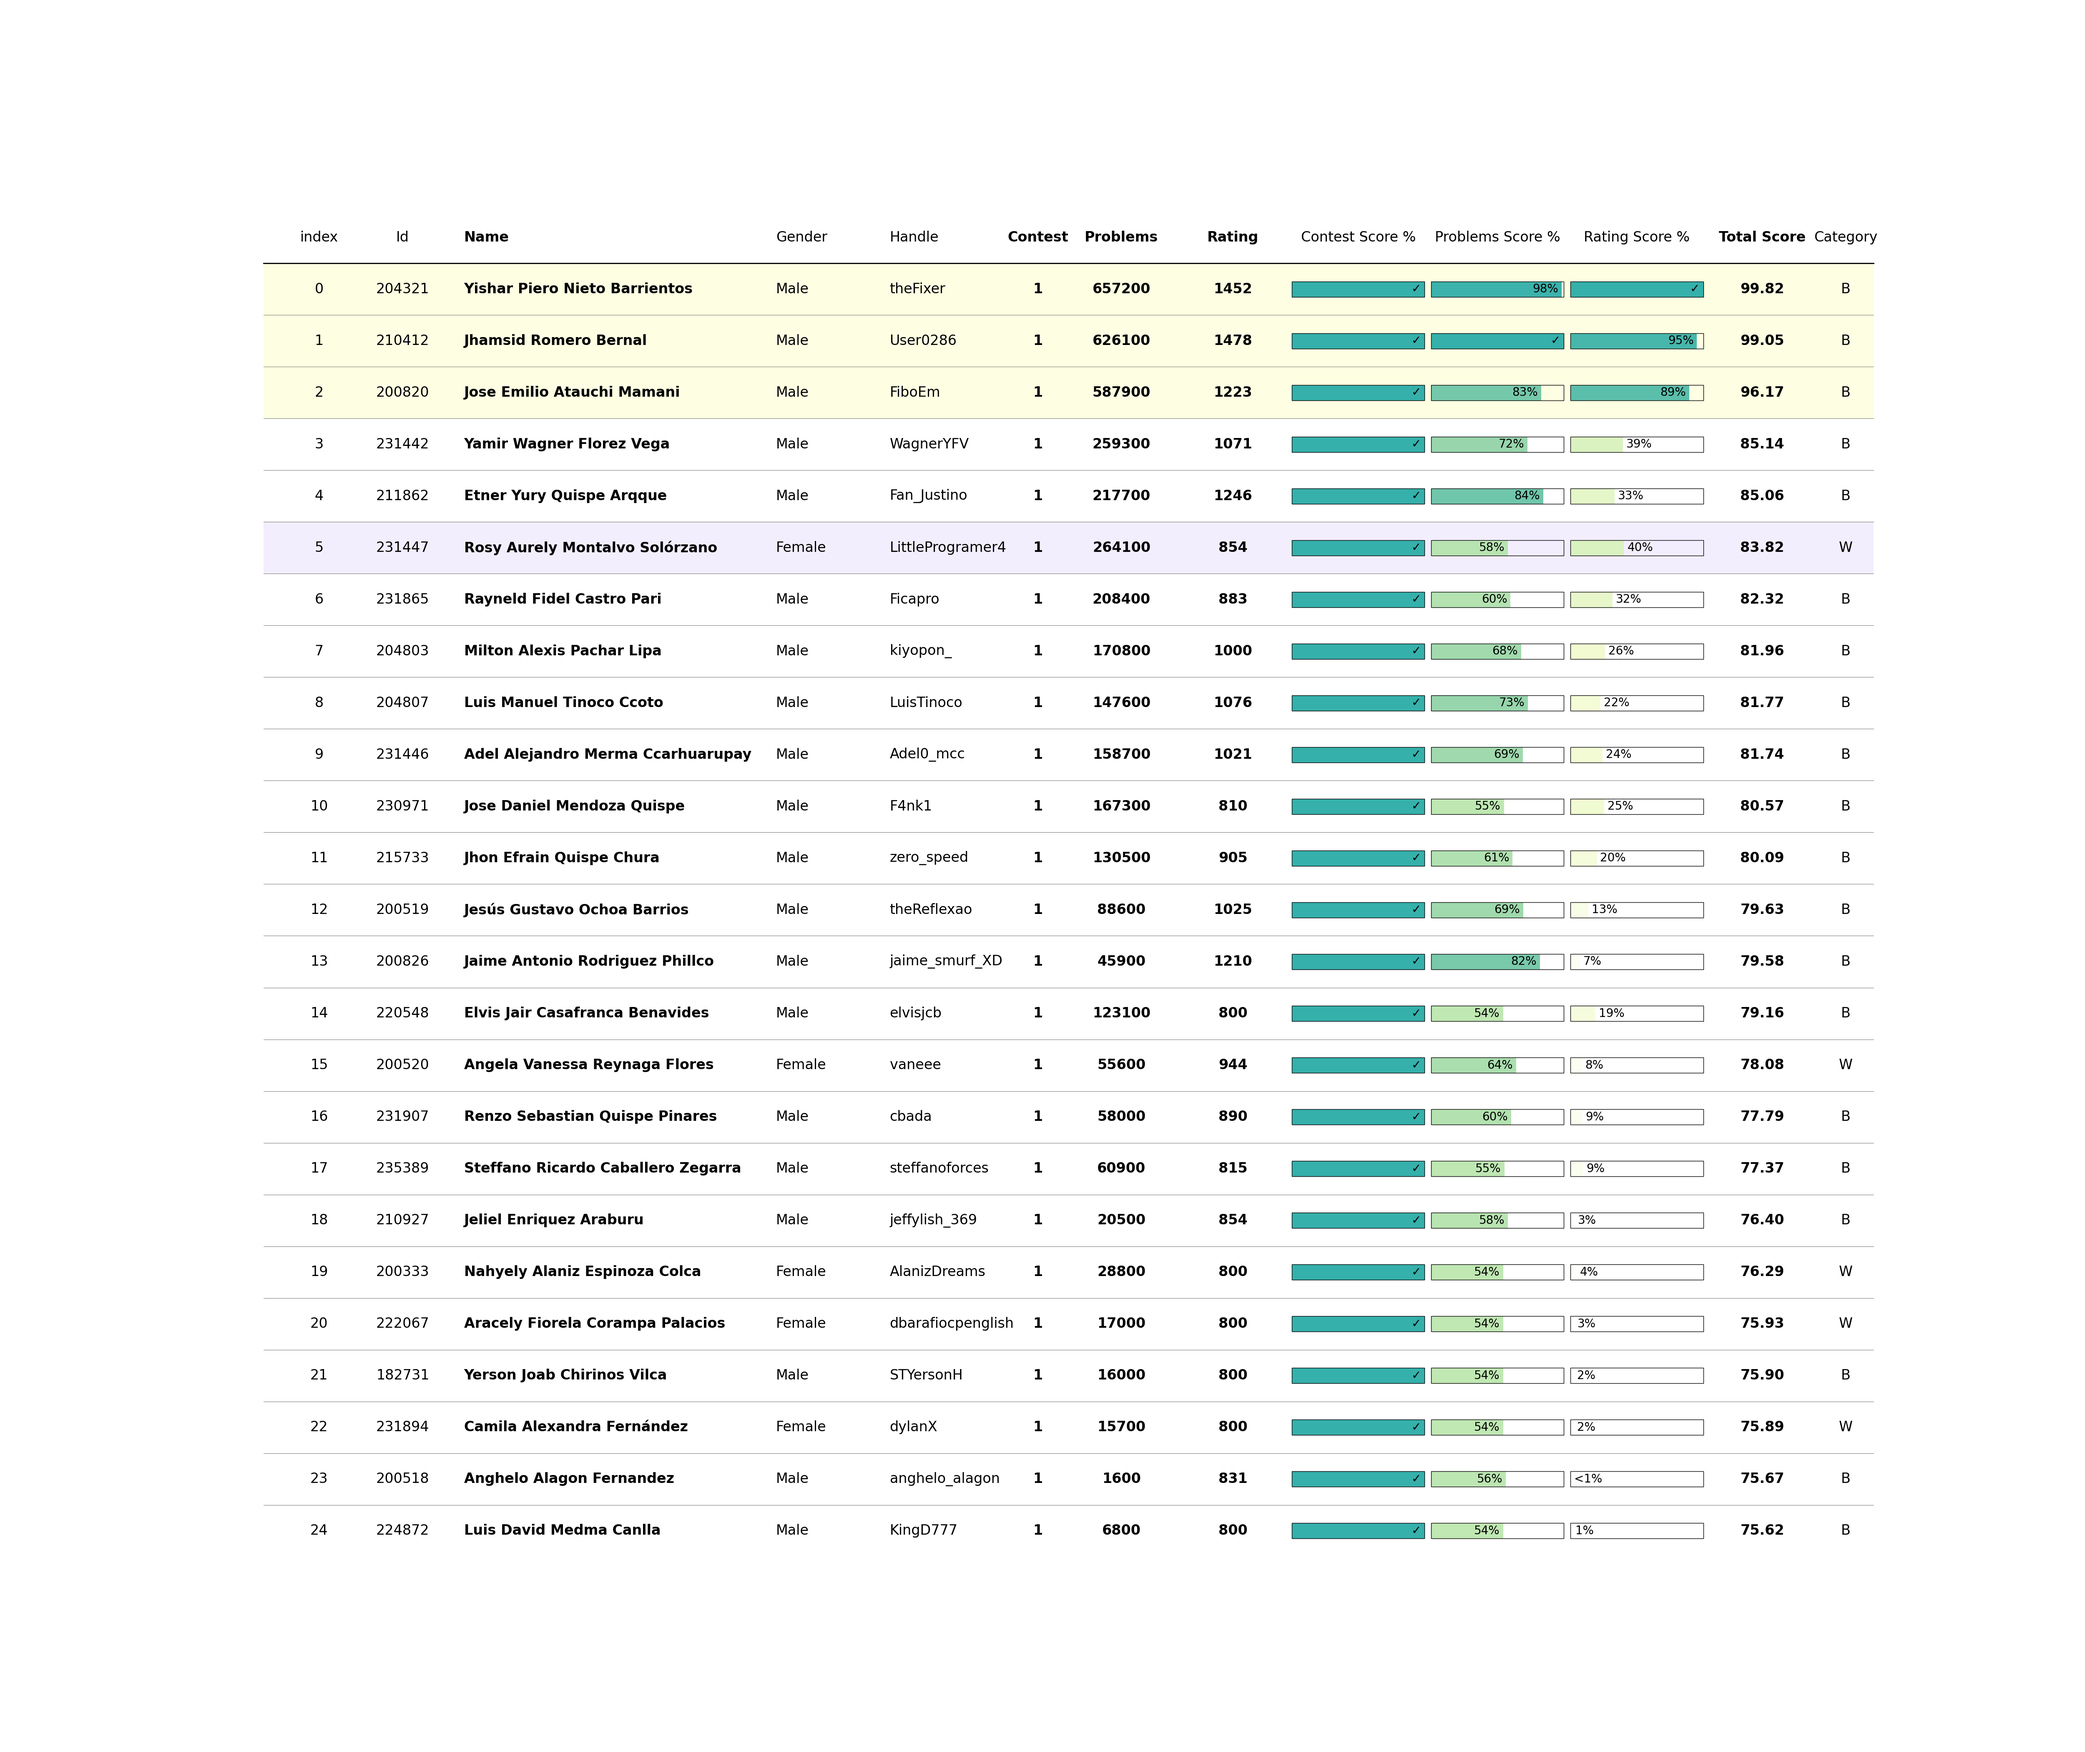
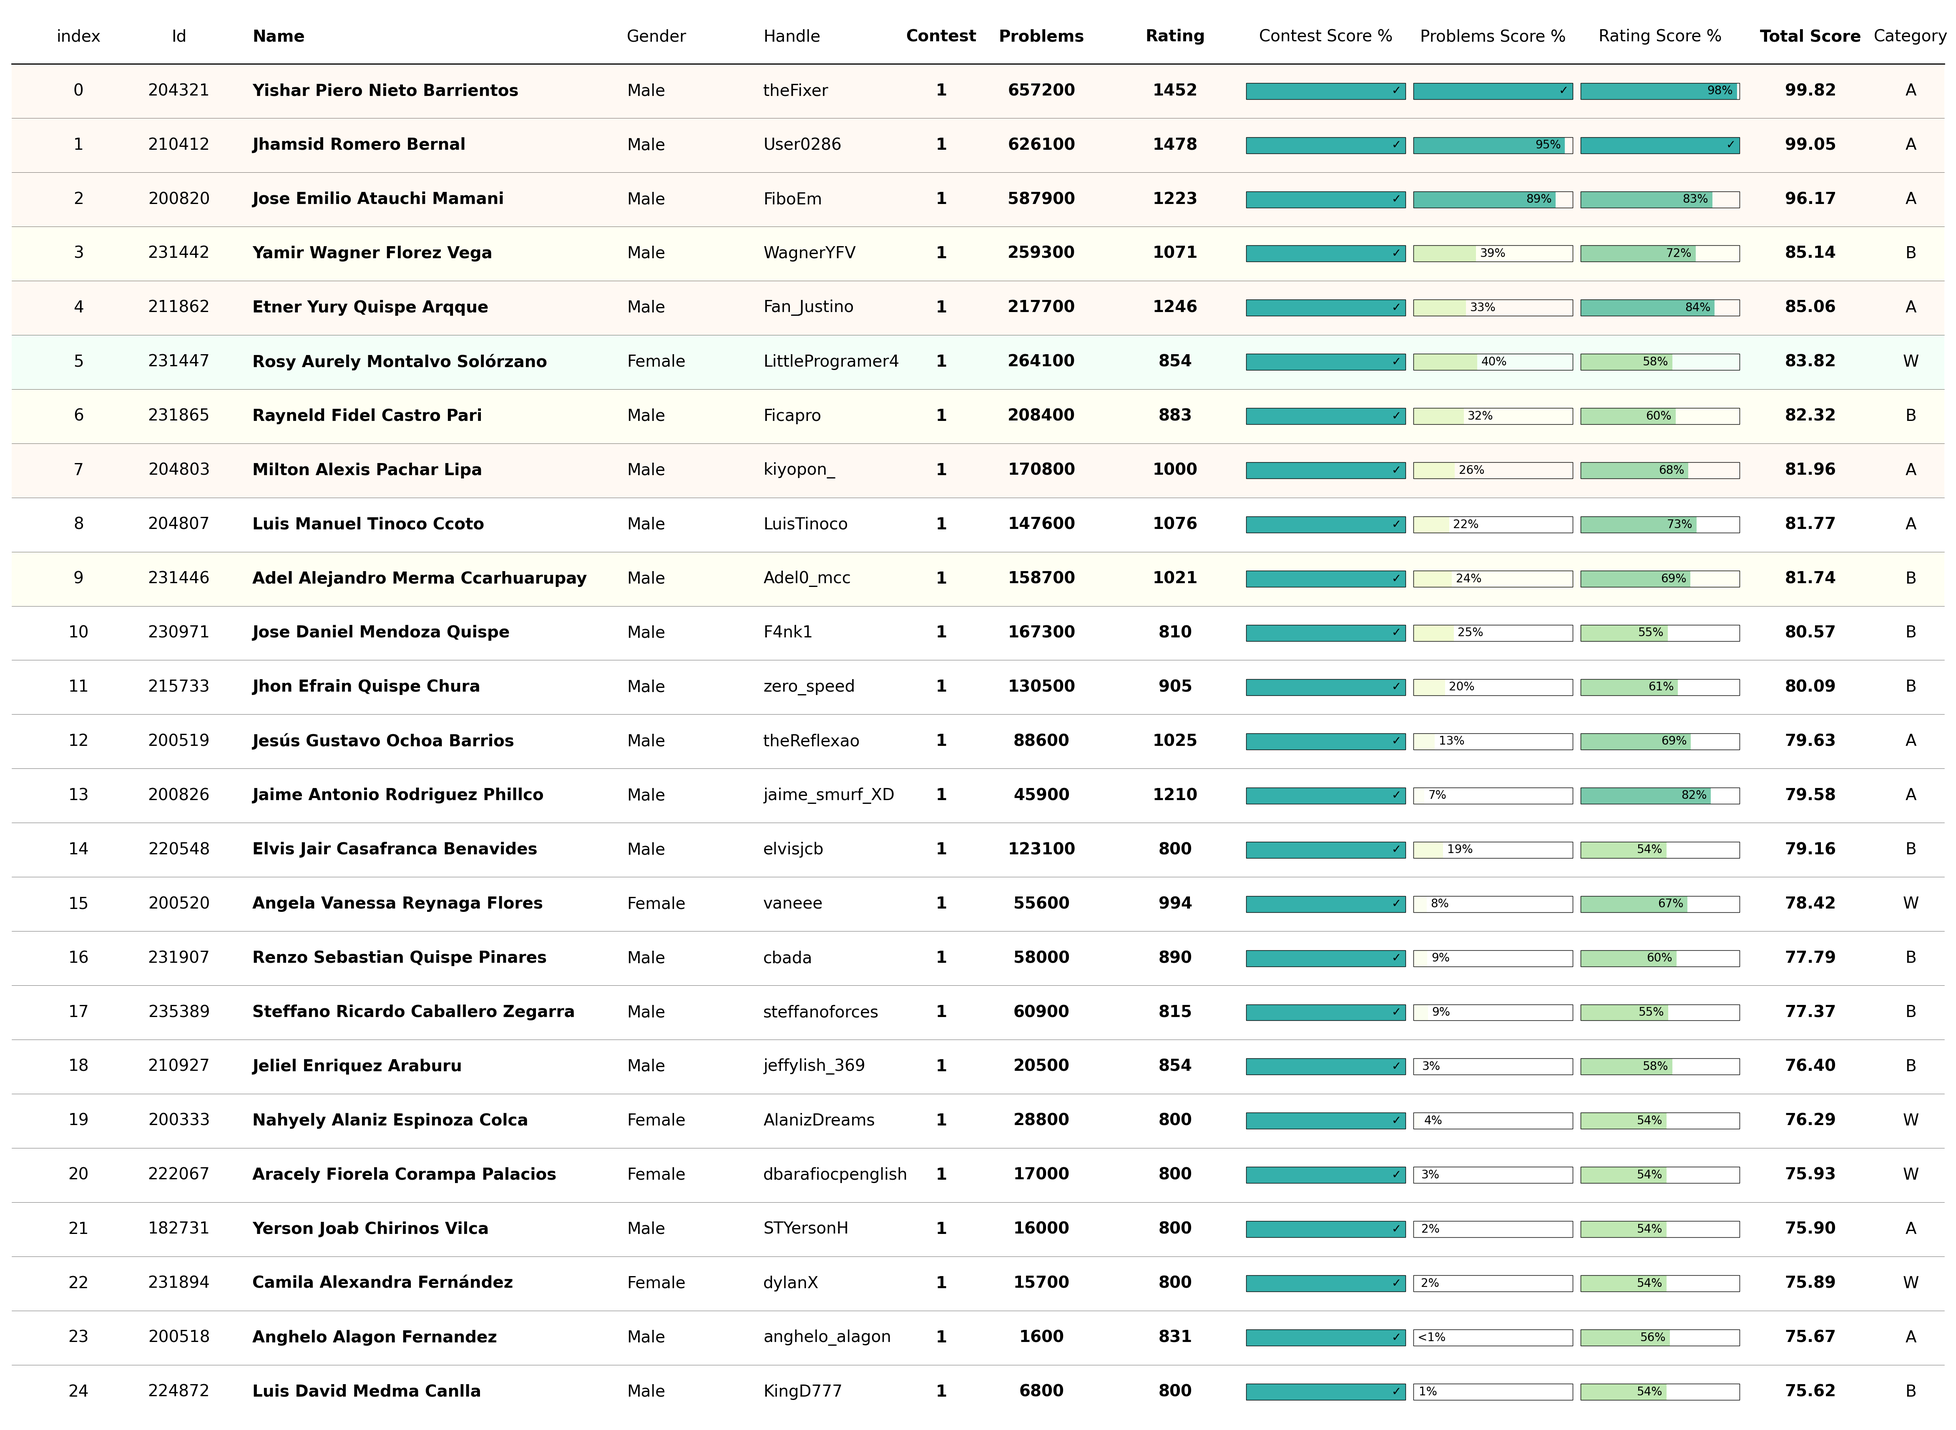
add flag to use codeforces

diff --git a/ranking/ranking.py b/ranking/ranking.py
@@ -22,6 +22,7 @@ class User:
     gender = ""
     codeforcesHandle = ""
     credits = 0
+    semester = 0
     contestRegistered = ""
     contestPosition = 0
 
@@ -41,18 +42,24 @@ class User:
     ratingSolvedProblemScore = 0.0
     totalScore = 0.0
 
-    def __init__(self, id, name, gender, codeforcesHandle, credits, contestRegistered , contestPosition):
+    def __init__(self, id, name, gender, codeforcesHandle, credits, semester, contestRegistered , contestPosition, codeforcesRating, totalRatingSolvedProblems, useCodeforces):
         self.id = id
         self.name = name
         self.gender = gender
         self.codeforcesHandle = codeforcesHandle
         self.credits = int(credits)
+        self.semester = int(semester)
         self.contestRegistered = contestRegistered
         self.contestPosition = int(contestPosition)
 
         print('Loading Codeforces info for \"{0}\" with handle \"{1}\"'.format(self.name, self.codeforcesHandle))
-        self.getCodeforcesRating()
-        self.getTotalRatingSolvedProblems()
+        if not useCodeforces:
+            self.codeforcesRating = int(codeforcesRating)
+            self.totalRatingSolvedProblems = int(totalRatingSolvedProblems)
+        else:
+            self.getCodeforcesRating()
+            self.getTotalRatingSolvedProblems()
+
         self.isRegisteredOnContest()
         print("Loading basic information for \"{0}\"".format(self.name))
 
@@ -132,6 +139,11 @@ class Ranking:
     def getUserCategory(self, user):
         if user.gender == "Female":
             return "W"
+        if user.credits == 0:
+            if user.semester > 5:
+                return "A"
+            else:
+                return "B" 
         if user.credits > self.creditsThreshold:
             return "A"
         else:
@@ -236,16 +248,22 @@ class Ranking:
                 shortName = " ".join(splitName[0:3])
 
             contestPositionScorePercent = user.contestPositionScore / self.contestPositionWeight
-            ratingSolvedProblemPercent = user.codeforcesRatingScore / self.codeforcesRatingWeight
-            codeforcesRatingScorePercent = user.ratingSolvedProblemScore / self.totalRatingSolvedProblemsWeight
+            codeforcesRatingScorePercent = user.codeforcesRatingScore / self.codeforcesRatingWeight
+            ratingSolvedProblemPercent = user.ratingSolvedProblemScore / self.totalRatingSolvedProblemsWeight
 
             row = [user.id, shortName, user.gender, user.codeforcesHandle, user.contestPosition , user.totalRatingSolvedProblems, user.codeforcesRating, contestPositionScorePercent, ratingSolvedProblemPercent, codeforcesRatingScorePercent, user.totalScore, user.category]
             data.append(row)
         
-        cmap = LinearSegmentedColormap.from_list(name="bugw", colors=["#ffffff", "#f2fbd2", "#c9ecb4", "#93d3ab", "#35b0ab"], N=256)
-        fig, ax = plt.subplots(figsize=(25, 21))
-        #plt.rcParams["font.weight"] = "bold"
-        dataframe = pd.DataFrame(data, columns=headers)
+        cmap = LinearSegmentedColormap.from_list(
+            name="bugw", colors=["#ffffff", "#f2fbd2", "#c9ecb4", "#93d3ab", "#35b0ab"], N=256
+        )
+
+        plt.rcParams["font.family"] = ["DejaVu Sans"]
+        plt.rcParams["savefig.bbox"] = "tight"
+
+        fig, ax = plt.subplots(figsize=(30, 22))
+
+        dataframe = pd.DataFrame(data, columns = headers)
 
         table = Table(
             dataframe,
@@ -253,7 +271,7 @@ class Ranking:
                 "linewidth": 0,
                 "edgecolor": "k",
             },
-            textprops={"fontsize": 12, "ha": "center"},
+            textprops={"fontsize": 14, "ha": "center"},
             column_definitions=[
                 ColumnDefinition(
                     "Id",
@@ -337,9 +355,9 @@ class Ranking:
         )
 
         rowColorsCategory = {
-            "A": "#ffe7e2",
-            "B": "#feffe2",
-            "W": "#f3eefe",
+            "A": "#fff9f3",
+            "B": "#fffff3",
+            "W": "#f3fff8",
         }
         
         selectByCategoryA = int(self.config["Selection"]["CategoryA"])
@@ -378,13 +396,20 @@ def readData(filepath):
     return data
 
 def getUsers(config, data):
+    useCodeforces = int(config["Flag"]["UseCodeforces"])
+
     idCol = int(config["Column"]["Id"])
     nameCol = int(config["Column"]["Name"])
     genderCol = int(config["Column"]["Gender"])
     codeforcesHandleCol = int(config["Column"]["CodeforcesHandle"])
     creditsCol = int(config["Column"]["Credits"])
+    semesterCol = int(config["Column"]["Semester"])
     contestPositionCol = int(config["Column"]["ContestPosition"])
     contestRegisteredCol = int(config["Column"]["ContestRegistered"])
+
+    if not useCodeforces:
+        codeforcesRatingCol = int(config["Column"]["CodeforcesRating"])
+        totalRatingSolvedProblemsCol = int(config["Column"]["TotalRatingSolvedProblems"])
 
     print("Loading users information...")
     users = []
@@ -394,13 +419,20 @@ def getUsers(config, data):
         gender = data.cell(row, genderCol).value
         codeforcesHandle = data.cell(row, codeforcesHandleCol).value
         credits = data.cell(row, creditsCol).value
+        semester = data.cell(row, semesterCol).value
         contestPosition = data.cell(row, contestPositionCol).value
         contestRegistered = data.cell(row, contestRegisteredCol).value
 
-        if id == None or name == None or gender == None or codeforcesHandle == None or credits == None or contestPosition == None or contestRegistered == None:
+        codeforcesRating = 0
+        totalRatingSolvedProblems = 0
+        if not useCodeforces:
+            codeforcesRating = data.cell(row, codeforcesRatingCol).value
+            totalRatingSolvedProblems = data.cell(row, totalRatingSolvedProblemsCol).value
+
+        if id == None or name == None or gender == None or codeforcesHandle == None or credits == None or semester == None or contestPosition == None or contestRegistered == None:
             continue
 
-        user = User(id, name, gender, codeforcesHandle, credits, contestRegistered, contestPosition)
+        user = User(id, name, gender, codeforcesHandle, credits, semester, contestRegistered, contestPosition, codeforcesRating, totalRatingSolvedProblems, useCodeforces)
         users.append(user)
 
     print("Loading users information is completed!")

diff --git a/scoreboard/scoreboard.py b/scoreboard/scoreboard.py
@@ -115,7 +115,7 @@ class Scoreboard:
                 ColumnDefinition(
                     name="Name",
                     textprops={"ha": "left", "weight": "bold"},
-                    width=4,
+                    width=4.0,
                 ),
                 ColumnDefinition(
                     name="Handle",

diff --git a/ranking/selection/training-camp-argentina-2024/README.md b/ranking/selection/training-camp-argentina-2024/README.md
@@ -19,7 +19,7 @@ Selection contest was done using the [Virtual Judge](https://vjudge.net/) platfo
 - **Participants**: `25`
 - **Problems**: `10`
 
-## ScoreBoard
+## Scoreboard
 
 The complete final scoreboard of the contest can be consulted at [scoreboard document](../../../scoreboard/selection/training-camp-argentina-2024/scoreboard.csv) or [scoreboard image](../../../scoreboard/selection/training-camp-argentina-2024/scoreboard.png).
 
@@ -37,7 +37,6 @@ The final list of students selected by category is summarized in the following t
 
 | Rank | Id | Name | Attend | Category |
 | - | - | - | - | - |
-| | | | | |
 
 ## Next steps
 - Register for the Training Camp Argentina 2024 through the [Google Forms](https://docs.google.com/forms/d/e/1FAIpQLSdLZTFTqlv4tptvv-tZQtWJkfWPlHRk6thsUQUUmtC8Hm4lDw/viewform)
